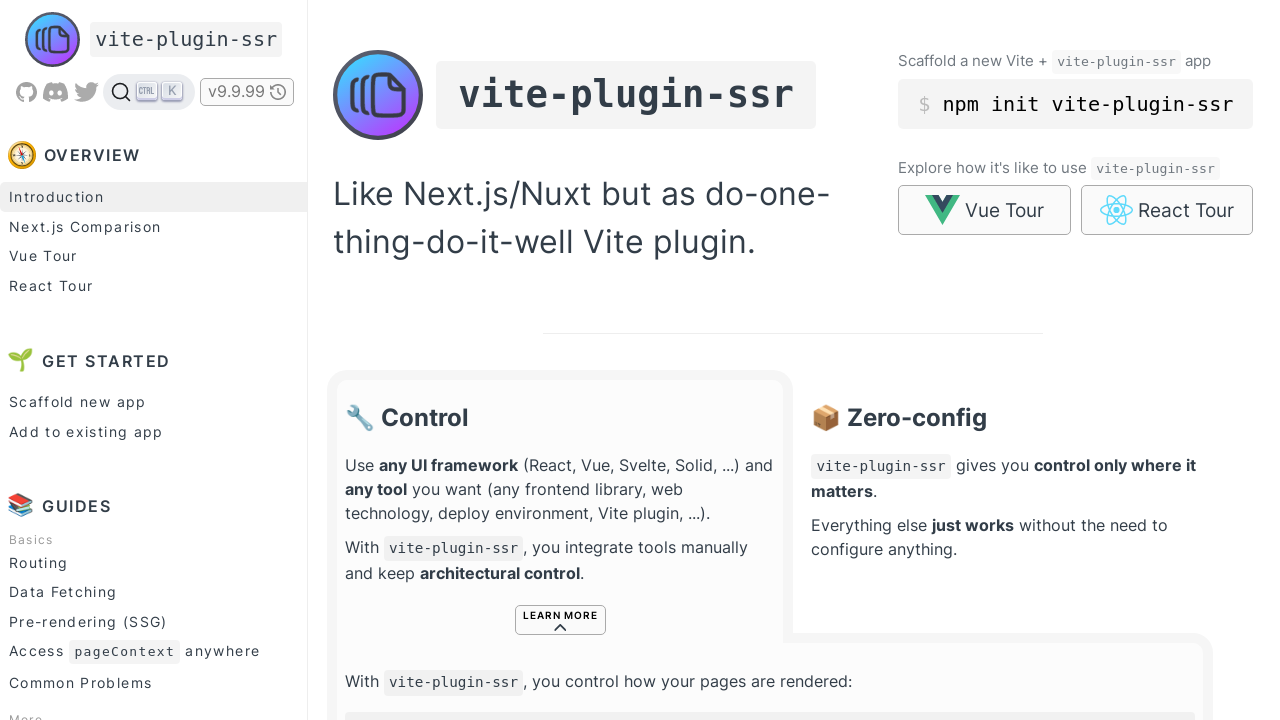
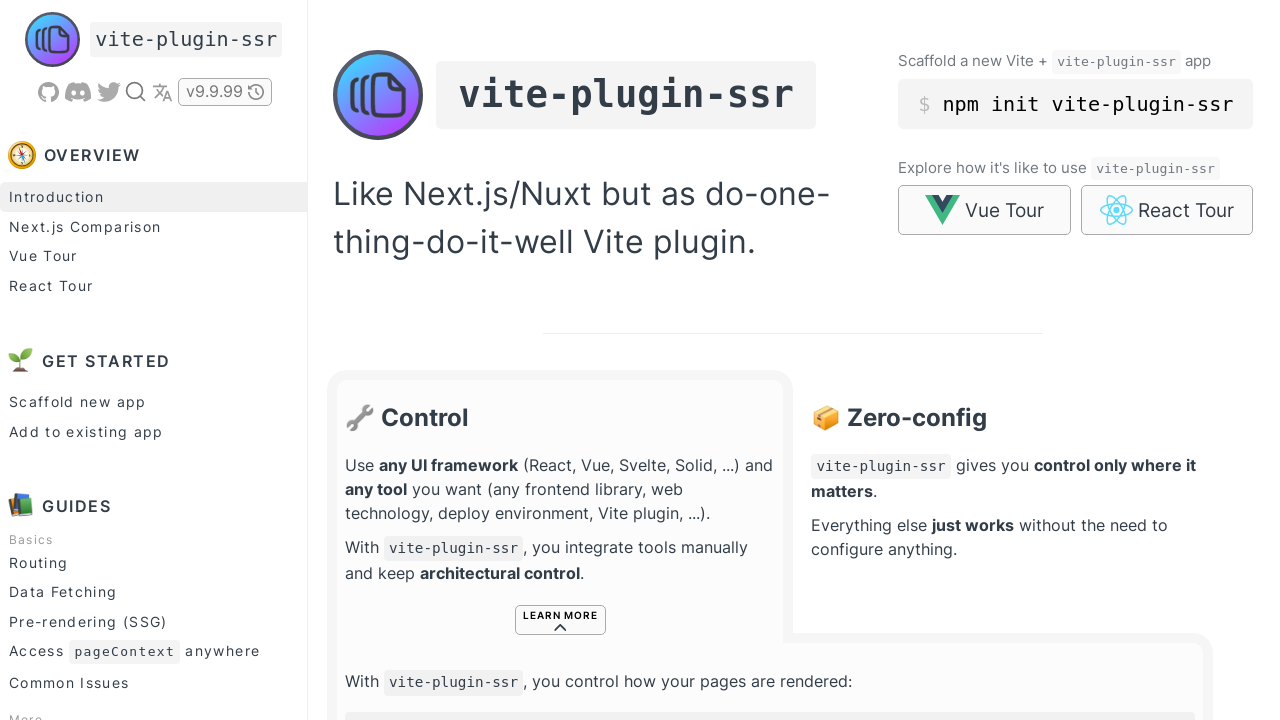
docs: misc

diff --git a/docs/headings.tsx b/docs/headings.tsx
@@ -134,6 +134,14 @@ const headingsWithoutLink: HeadingWithoutLink[] = [
   {
     title: 'Deployment synchronization',
     url: '/deploy-sync'
+  },
+  {
+    title: 'Languages',
+    url: '/languages'
+  },
+  {
+    title: 'Common Problems',
+    url: '/common-problems'
   }
 ]
 
@@ -217,8 +225,8 @@ const headings: HeadingDefinition[] = [
   },
   {
     level: 2,
-    title: 'Common Problems',
-    url: '/common-problems'
+    title: 'Common Issues',
+    url: '/common-issues'
   },
   {
     level: 4,

diff --git a/docs/docpress.config.tsx b/docs/docpress.config.tsx
@@ -21,6 +21,7 @@ const config: Config = {
     apiKey: '8d5986fca9ba9110bcbbfc51263de88b',
     indexName: 'vite-pluginssr'
   },
-  bannerUrl: 'https://vite-plugin-ssr.com/banner.png'
+  bannerUrl: 'https://vite-plugin-ssr.com/banner.png',
+  i18n: true
 }
 export default config
